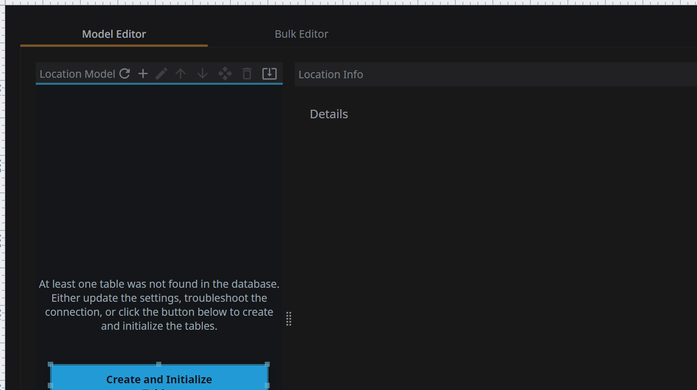
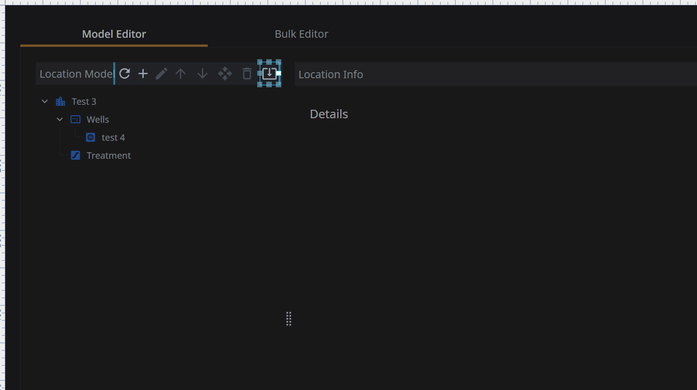
NewFeature: SQLite support finished

diff --git a/ignition/script-python/location/model/code.py b/ignition/script-python/location/model/code.py
@@ -338,7 +338,10 @@ def getLocationIDPath(locationID):
 	dbName = settings.getValue('Location Model', 'modelDBName')
 	
 	try:	
-		parentID = system.db.runPrepQuery("SELECT ParentLocationID FROM core.Location WHERE LocationID = ?", [locationID], dbName).getValueAt(0,0)
+		if dbType == 'MSSQL':
+			parentID = system.db.runPrepQuery("SELECT ParentLocationID FROM core.Location WHERE LocationID = ?", [locationID], dbName).getValueAt(0,0)
+		else:
+			parentID = system.db.runPrepQuery("SELECT ParentLocationID FROM Location WHERE LocationID = ?", [locationID], dbName).getValueAt(0,0)
 	except:
 		return str(locationID)
 		
@@ -374,7 +377,11 @@ def getLocationPath(locationID):
 	# convert locationID path to location path
 	for locationID in locationIDs:
 		try:	
-			name = system.db.runPrepQuery("SELECT Name FROM core.Location WHERE LocationID = ?", [locationID], settings.getValue('Location Model', 'modelDBName')).getValueAt(0,0)
+			dbType = settings.getValue('Location Model', 'modelDBType')
+			if dbType == 'MSSQL':
+				name = system.db.runPrepQuery("SELECT Name FROM core.Location WHERE LocationID = ?", [locationID], settings.getValue('Location Model', 'modelDBName')).getValueAt(0,0)
+			else:
+				name = system.db.runPrepQuery("SELECT Name FROM Location WHERE LocationID = ?", [locationID], settings.getValue('Location Model', 'modelDBName')).getValueAt(0,0)
 		except:
 			return ''
 			
